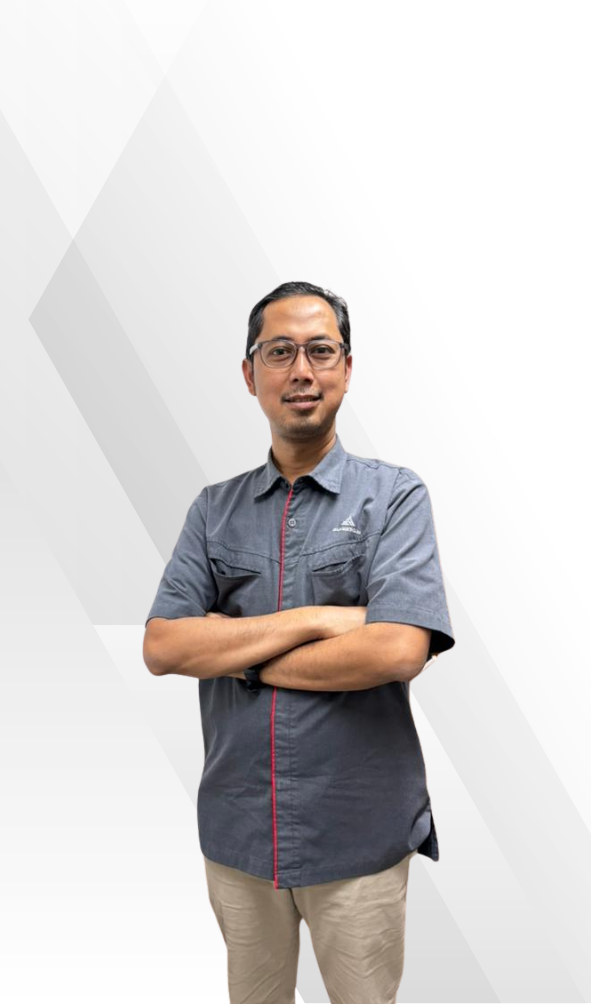
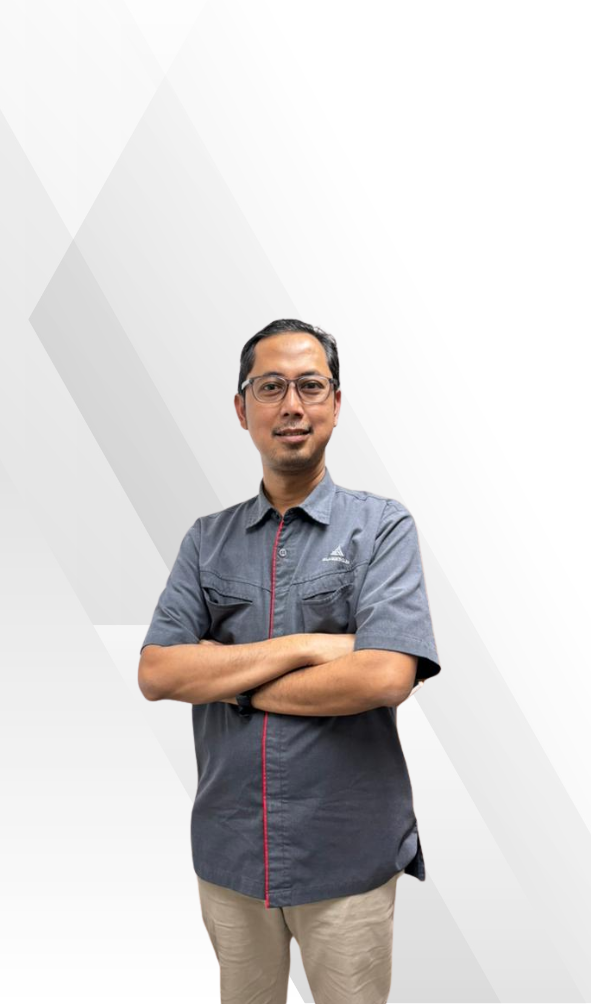
update

Changed region(s): [[0.2132, 0.2779, 0.7919, 1.0]]

diff --git a/frontend/src/pages/CustomerPage.jsx b/frontend/src/pages/CustomerPage.jsx
@@ -254,33 +254,7 @@
         </section>
 
         {/* ── CLOSING CTA ── */}
-        <section className="bg-[#0A1642] py-16 relative overflow-hidden">
-          <div
-            className="absolute inset-0 opacity-[0.04] pointer-events-none"
-            style={{
-              backgroundImage:
-                "linear-gradient(#fff 1px, transparent 1px), linear-gradient(90deg, #fff 1px, transparent 1px)",
-              backgroundSize: "48px 48px",
-            }}
-          />
-          <div className="max-w-[720px] mx-auto px-6 text-center relative">
-            <p className="text-[#D4A843] text-[0.62rem] font-bold tracking-[0.22em] uppercase mb-3">
-              Bergabung Bersama Kami
-            </p>
-            <h3 className="text-white text-[1.6rem] md:text-[2rem] font-bold uppercase tracking-wide leading-tight mb-4">
-              Menjadi Mitra Manufaktur Presisi Anda
-            </h3>
-            <p className="text-[#AEB8DA] text-[0.86rem] leading-relaxed mb-8">
-              Kami terbuka untuk kerja sama jangka panjang dengan prinsip mutu, layanan, dan nilai terbaik.
-            </p>
-            <button
-              onClick={() => navigate("/contactus")}
-              className="px-10 py-[14px] bg-[#D4A843] text-[#0A1642] border-none rounded-[9px] text-[0.78rem] font-bold tracking-[0.1em] uppercase font-condensed cursor-pointer hover:opacity-90 transition-opacity"
-            >
-              Hubungi Kami →
-            </button>
-          </div>
-        </section>
+      
       </div>
     );
   };

diff --git a/frontend/src/data/ManajemenData.jsx b/frontend/src/data/ManajemenData.jsx
@@ -1,7 +1,7 @@
-// import PresidentCommissioner from "../assets/PresidentCommissioner.png";
-// import Commissioner from "../assets/Commissioner.png";
-// import PresidentDirector from "../assets/PresidentDirector.png";
-// import Director from "../assets/Director.png";
+import PresidentCommissioner from "../assets/PresidentCommissioner.png";
+import Commissioner from "../assets/Commissioner.png";
+  import PresidentDirector from "../assets/PresidentDirector.png";
+import Director from "../assets/Director.png";
 
 import HeadOfCommercial from "../assets/HeadOfCommercial.png";
 import HeadOfCommercial1 from "../assets/HeadOfCommercial1.png";
@@ -21,7 +21,7 @@ export const management = [
     code: "BOC · 01",
     name: " ANINDRA ARDIANSYAH BAKRIE",
     position: "President Commissioner",
-    // photo: PresidentCommissioner,
+    photo: PresidentCommissioner,
     bio: ".....",
   },
   {
@@ -29,7 +29,7 @@ export const management = [
     code: "BOC · 02",
     name: "TAKUYA OGAWA",
     position: "Commissioner",
-    // photo: Commissioner,
+    photo: Commissioner,
     bio: ".....",
   },
 
@@ -41,7 +41,7 @@ export const management = [
     code: "BOD · 01",
     name: "V. BIMO KURNIATMOKO",
     position: "President Director",
-    // photo: PresidentDirector,
+    photo: PresidentDirector,
     bio: ".....",
   },
   {
@@ -49,7 +49,7 @@ export const management = [
     code: "BOD · 02",
     name: "AHMAD ABADI",
     position: "Director",
-    // photo: Director,
+    photo: Director,
     bio: ".....",
   },
 

diff --git a/frontend/src/pages/ManajemenPage.jsx b/frontend/src/pages/ManajemenPage.jsx
@@ -253,7 +253,7 @@ const ManajemenPage = () => {
           <div className="h-px flex-1 bg-[#0D1F5C]/10" />
         </div>
 
-        <div className="grid grid-cols-1 sm:grid-cols-2 lg:grid-cols-3 gap-6 md:gap-8">
+        <div className="grid grid-cols-1 sm:grid-cols-2 lg:grid-cols-4 gap-6 md:gap-8">
           {data.map((person) => (
             <MemberCard
               key={person.code}